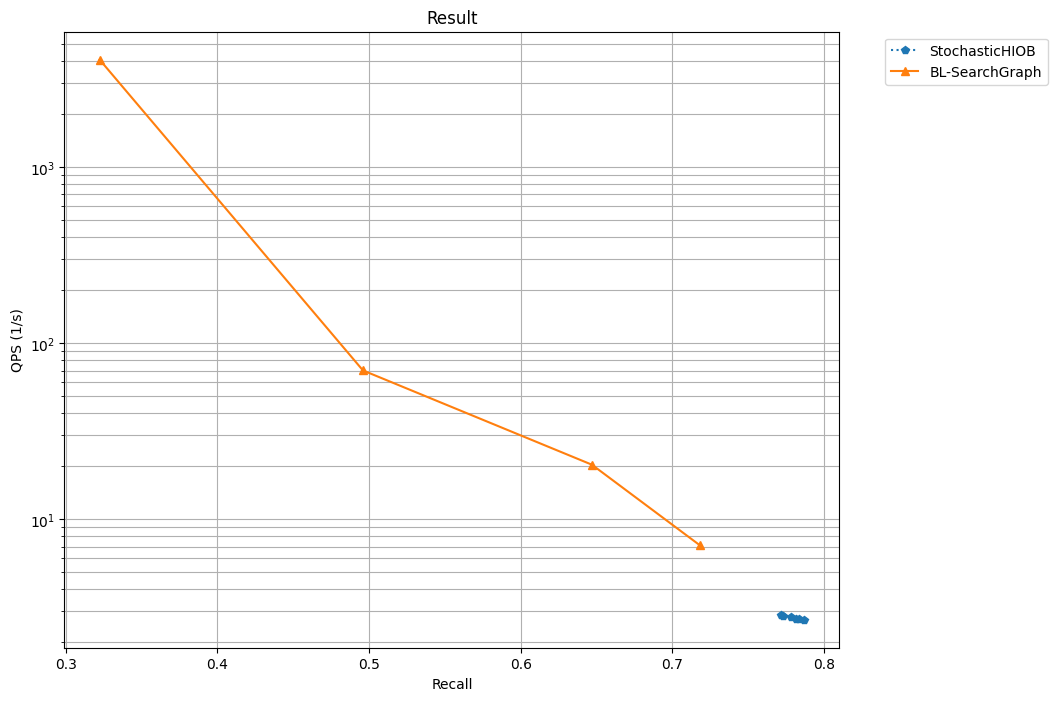
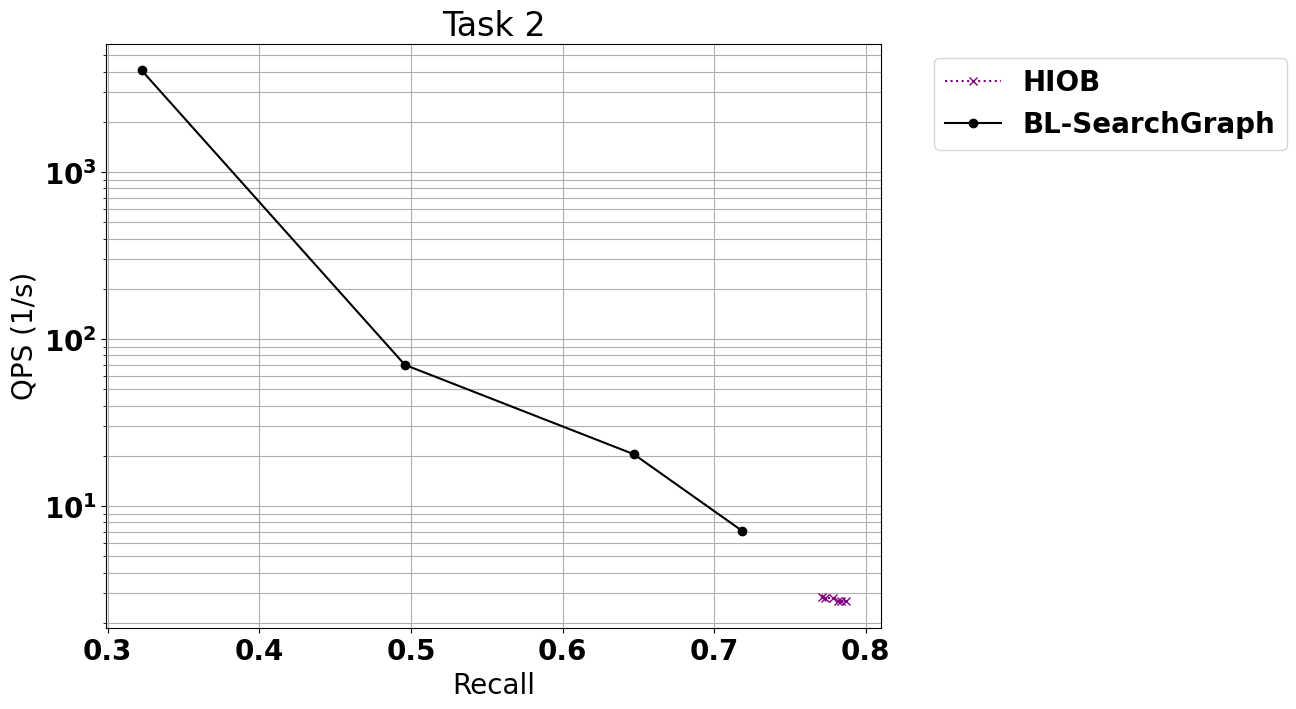
plots

diff --git a/plot.py b/plot.py
@@ -3,13 +3,22 @@ import argparse
 import csv
 import matplotlib
 matplotlib.use('agg')
+font = {'family' : 'normal',
+        'weight' : 'bold',
+        'size'   : 20}
+
+matplotlib.rc('font', **font)
 import matplotlib.pyplot as plt
 import sys
 from itertools import cycle
 
 
-marker = cycle(('p', '^', 'h', 'x', 'o', 's', '*', '+', 'D', '1', 'X')) 
-linestyle = cycle((':', '-', '--'))
+styles = {'LMI': {'marker': 'p', 'linestyle': ':', 'color': 'red'},
+          'HSP': {'marker': '^', 'linestyle': '-', 'color': 'blue'},
+          'DEGLIB': {'marker': 'x', 'linestyle': '--', 'color': 'green'},
+          'HIOB': {'marker': 'x', 'linestyle': ':', 'color': 'purple'},
+          'BL-SearchGraph': {'marker': 'o', 'linestyle': '-', 'color': 'black'}
+          }
 
 def draw(lines, xlabel, ylabel, title, filename, with_ctrl, width, height):
     """
@@ -31,7 +40,8 @@ def draw(lines, xlabel, ylabel, title, filename, with_ctrl, width, height):
             assert key in line
 
     for line in lines:
-        plt.plot(line["xs"], line["ys"], label=line["label"], marker=next(marker), linestyle=next(linestyle))
+        S = line["style"]
+        plt.plot(line["xs"], line["ys"], label=line["label"], marker=S["marker"], linestyle=S["linestyle"], color=S["color"])
         if with_ctrl:
             for x, y, ctrl in zip(line["xs"], line["ys"], line["ctrls"]):
                 plt.annotate(text=str(ctrl), xy=(x, y),
@@ -43,6 +53,8 @@ def draw(lines, xlabel, ylabel, title, filename, with_ctrl, width, height):
     plt.yscale("log")
     plt.legend(bbox_to_anchor=(1.05, 1.0), loc="upper left")
     plt.title(title)
+    #plt.xticks(rotation=25)
+    plt.subplots_adjust(bottom=0.15)
     plt.savefig(filename, bbox_inches='tight')
     plt.cla()
 
@@ -65,6 +77,7 @@ def get_pareto_frontier(line):
 if __name__ == "__main__":
     parser = argparse.ArgumentParser()
     parser.add_argument("csvfile")
+    parser.add_argument("--title", default="")
     args = parser.parse_args()
     
     with open(args.csvfile, newline="") as csvfile:
@@ -75,9 +88,11 @@ if __name__ == "__main__":
     for res in data:
         algo = res["algo"]
         if algo.startswith("StochasticHIOB"):
-            algo = "StochasticHIOB"
+            algo = "HIOB"
         elif algo.startswith("SearchGraph"):
             algo = "BL-SearchGraph"
+        else:
+            algo = algo.upper()
 
         label = algo
         if label not in lines:
@@ -86,6 +101,7 @@ if __name__ == "__main__":
                 "ys": [],
                 "ctrls": [],
                 "label": label,
+                "style": styles[label],
             }
         lines[label]["xs"].append(float(res["recall"]))
         lines[label]["ys"].append(10000/float(res["querytime"])) # FIX query size hardcoded
@@ -95,4 +111,4 @@ if __name__ == "__main__":
     outname = args.csvfile.replace(".csv", "") + ".png"
     with_ctrls = False
     draw([get_pareto_frontier(line) for line in lines.values()], 
-            "Recall", "QPS (1/s)", "Result", outname, with_ctrls, 10, 8)
+            "Recall", "QPS (1/s)", args.title, outname, with_ctrls, 10, 8)
